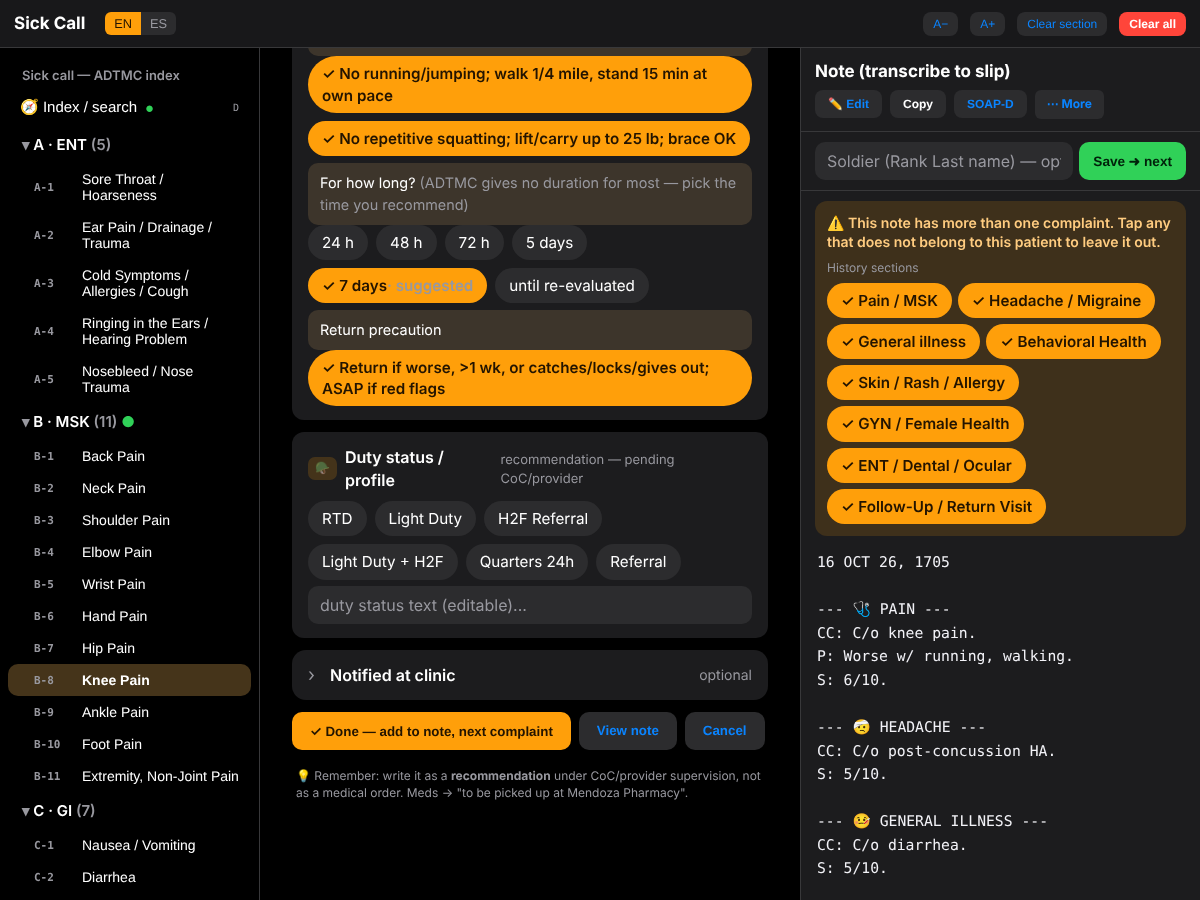
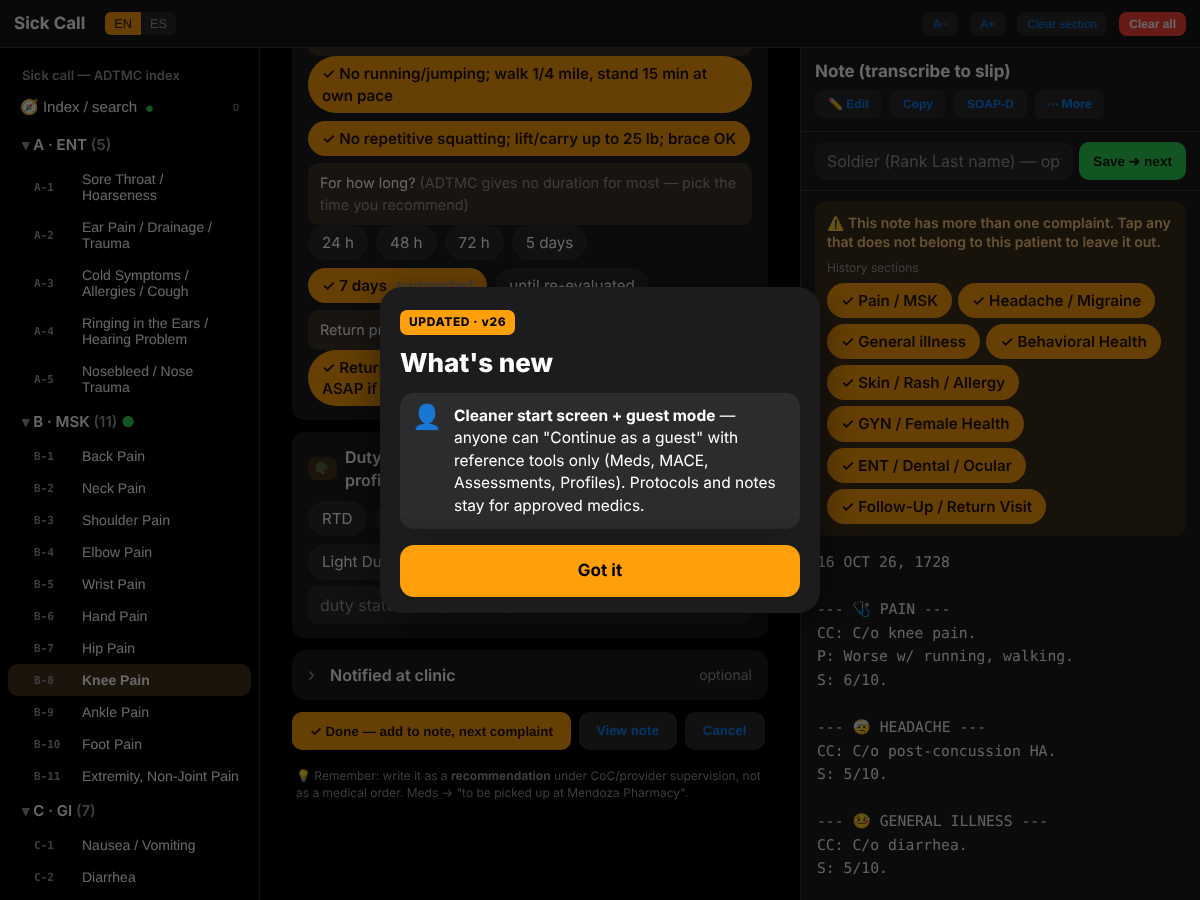
Cleaner start screen + guest mode with reference tools only (v26)
Pantalla de inicio más limpia + modo invitado solo con referencias (v26)

Claude-Session: https://claude.ai/code/session_015dVcNB5Wifchtix1QkjYVg

diff --git a/access.js b/access.js
@@ -47,21 +47,28 @@ function acShareBox(link,title){return '<div class="ac-qr">'+acQR(link)+'</div><
 async function accGate(force){
   if(!/^https?:/.test(location.protocol)||!AC.ok())return; // local file / no WebCrypto: dev mode
   acRole=await AC.role();
-  if(acRole){acClose();return;}
+  if(acRole){acGuestOff();acClose();return;}
+  if(acIsGuest()&&!force){acGuestApply();return;}
   let skip=false;try{skip=sessionStorage.getItem('sc_acskip')==='1';}catch(e){}
   if(skip&&!acEnforced()&&!force)return;
-  const left=acDays();
-  acOv('<div class="mg-k">68W · ADTMC</div><h2>'+L('Sick Call — for medics','Sick Call — para médicos')+'</h2>'
-   +'<p>'+L('This tool is for trained 68W medics and medical personnel using the ADTMC under provider supervision.','Esta herramienta es para médicos 68W entrenados y personal médico que usa el ADTMC bajo supervisión de un proveedor.')+'</p>'
-   +'<p><b>'+L('It does not diagnose. It is not for self-diagnosis or self-treatment.','No diagnostica. No es para autodiagnóstico ni para automedicarse.')+'</b></p>'
+  const lg=(typeof LANG!=='undefined'&&LANG==='es')?'es':'en';
+  acOv('<div class="mg-top"><span class="mg-k">68W · ADTMC</span><span class="mg-lang"><button class="'+(lg==='en'?'on':'')+'" onclick="acLang(\'en\')">EN</button><button class="'+(lg==='es'?'on':'')+'" onclick="acLang(\'es\')">ES</button></span></div>'
+   +'<h2>Sick Call</h2>'
+   +'<p class="mg-sub">'+L('For 68W medics, under provider supervision.','Para médicos 68W, bajo supervisión de un proveedor.')+' <b>'+L('Not for self-diagnosis.','No es para autodiagnóstico.')+'</b></p>'
    +'<button class="mg-btn" onclick="acReqView(\'medic\')">🩺 '+L('I\'m a medic — request access','Soy médico — pedir acceso')+'</button>'
-   +'<button class="mg-btn sec" onclick="acHaveView()">🔑 '+L('I have an approval (scan or paste)','Tengo una aprobación (escanear o pegar)')+'</button>'
-   +'<button class="ac-skip" style="padding-top:8px" onclick="acReqView(\'appr\')">'+L('Medic NCO? Become an approver','¿NCO de médicos? Ser aprobador')+'</button>'
+   +'<button class="mg-btn sec" onclick="acHaveView()">🔑 '+L('I have an approval','Tengo una aprobación')+'</button>'
    +'<button class="mg-btn sec" onclick="location.href=\'intake.html\'">🤒 '+L('I\'m a Soldier and I feel sick','Soy soldado y me siento mal')+'</button>'
-   +(acEnforced()?'':'<button class="ac-skip" onclick="acSkip()">'+L('Continue for now','Continuar por ahora')+' — '+L('approval required in ','aprobación obligatoria en ')+left+(left===1?L(' day',' día'):L(' days',' días'))+'</button>')
-   +((typeof canInstall==='function'&&canInstall())?'<button class="ac-skip" onclick="installApp()">📲 '+L('First time? Add the app to your Home Screen','¿Primera vez? Agrega la app a tu pantalla de inicio')+'</button>':'')
-   +'<p class="mg-f">'+L('Medics get access once: your NCO approves your phone. No name or ID is stored. Soldiers: answer the sick call questions and show your code to the medic. Emergency? Tell a medic now or call 911.','Los médicos piden acceso una sola vez: tu NCO aprueba tu teléfono. No se guarda nombre ni ID. Soldados: contesten las preguntas de sick call y enséñenle su código al médico. ¿Emergencia? Avísale a un médico ya o llama al 911.')+'</p>');
+   +'<button class="mg-btn ghost" onclick="acGuest()">👤 '+L('Continue as a guest','Continuar como invitado')+'<small>'+L('Reference tools only','Solo herramientas de referencia')+'</small></button>'
+   +'<div class="mg-links"><button onclick="acReqView(\'appr\')">'+L('NCO? Become an approver','¿NCO? Ser aprobador')+'</button>'+((typeof canInstall==='function'&&canInstall())?'<span>·</span><button onclick="installApp()">📲 '+L('Install app','Instalar app')+'</button>':'')+'</div>'
+   +'<div class="mg-em">🚨 '+L('Emergency? Tell a medic now or call 911.','¿Emergencia? Avísale a un médico ya o llama al 911.')+'</div>');
 }
+function acLang(l){try{setLang(l);}catch(e){}accGate(true);}
+/* Guest mode: reference tools only (Meds, MACE, Assessments, Questions, Profiles). No protocols, dispositions, notes or patient queue.
+   Modo invitado: solo referencias. Sin protocolos, disposiciones, notas ni lista de pacientes. */
+function acIsGuest(){try{return localStorage.getItem('sc_guest')==='1';}catch(e){return false;}}
+function acGuest(){try{localStorage.setItem('sc_guest','1');}catch(e){}acClose();acGuestApply();}
+function acGuestOff(){try{localStorage.removeItem('sc_guest');}catch(e){}document.body.classList.remove('guest');}
+function acGuestApply(){document.body.classList.add('guest');const gb=document.getElementById('guestBtn');if(gb)gb.textContent='👤 '+L('Guest','Invitado');try{if(typeof GUEST_OK!=='undefined'&&!GUEST_OK.includes(view)){tabGo('admeds');}else{renderNav();renderMain();}}catch(e){}}
 function acSkip(){try{sessionStorage.setItem('sc_acskip','1');}catch(e){}acClose();}
 function acReqView(role){
   const s=AC.get('sc_req')||{};

diff --git a/style.css b/style.css
@@ -718,3 +718,27 @@ header button.danger.armed,button.danger.armed,button.armed{background:#8E0000!i
 #wnOv .wn-go{margin-top:8px;border:0;background:none;color:var(--accent);font:inherit;font-weight:700;padding:0;cursor:pointer}
 #wnOv .wn-ok{width:100%;border:0;border-radius:14px;background:var(--accent);color:#000;font:inherit;font-size:17px;font-weight:700;padding:14px;margin-top:6px;cursor:pointer}
 #wnOv .wn-ok{position:sticky;bottom:0;box-shadow:0 -10px 16px var(--panel)}
+/* Start screen redesign + guest mode (v26) / Pantalla de inicio + invitado */
+#mgOv .mg-top{display:flex;align-items:center;justify-content:space-between}
+#mgOv .mg-lang{display:flex;background:var(--panel);border-radius:9px;padding:2px}
+#mgOv .mg-lang button{border:0;background:none;color:var(--dim);font:inherit;font-size:14px;font-weight:700;padding:6px 12px;border-radius:7px}
+#mgOv .mg-lang button.on{background:var(--orange);color:#000}
+#mgOv h2{font-size:40px;letter-spacing:-.02em;margin:22px 0 8px}
+#mgOv .mg-sub{font-size:17px;color:var(--dim);margin:0 0 22px;line-height:1.45}
+#mgOv .mg-sub b{color:var(--txt);font-weight:700}
+#mgOv .mg-btn{margin-top:10px}
+#mgOv .mg-btn.ghost{background:none;border:1.5px dashed var(--line);color:var(--txt);margin-top:18px}
+#mgOv .mg-btn small{display:block;font-size:13px;font-weight:500;color:var(--dim);margin-top:3px}
+#mgOv .mg-links{display:flex;justify-content:center;align-items:center;gap:10px;margin-top:22px;color:var(--dim);font-size:15px}
+#mgOv .mg-links button{border:0;background:none;color:var(--orange);font:inherit;font-weight:600;padding:4px 2px}
+#mgOv .mg-em{text-align:center;color:var(--dim);font-size:14px;margin-top:14px}
+.guest-btn{display:none;background:var(--panel2)!important;color:var(--txt)!important;font-weight:700}
+body.guest .guest-btn{display:inline-block}
+body.guest #aside,body.guest #mobileNoteBtn,body.guest #tabbar button[data-v="adtmc"],body.guest #tabbar button[data-v="guardados"],body.guest header button[onclick="resetTpl()"],body.guest header .danger{display:none!important}
+.guest-lock{max-width:440px;margin:40px auto;text-align:center;padding:0 8px}
+.guest-lock .gl-ic{font-size:44px}
+.guest-lock h2{font-size:26px;margin:10px 0 8px}
+.guest-lock p{color:var(--dim);font-size:16px;line-height:1.5;margin:0 0 18px}
+.guest-lock button{display:block;width:100%;border:0;border-radius:14px;padding:15px;font:inherit;font-size:17px;font-weight:700;margin-top:10px;cursor:pointer}
+.guest-lock .gl-btn{background:var(--accent);color:#000}
+.guest-lock .gl-sec{background:var(--panel);color:var(--txt)}

diff --git a/app.js b/app.js
@@ -1121,8 +1121,12 @@ function fuQs(t,s,fid){
   }
   return out;
 }
+const GUEST_OK=['admeds','mace','more','preguntas','assess','perfiles','access'];
+function isGuest(){return document.body.classList.contains('guest');}
+function guestLocked(){return '<div class="guest-lock"><div class="gl-ic">🔒</div><h2>'+L('For approved medics','Para médicos aprobados')+'</h2><p>'+L('Protocols, dispositions, notes and the patient list need medic access. As a guest you can use Meds, MACE, Assessments, Questions and Profiles.','Los protocolos, disposiciones, notas y la lista de pacientes necesitan acceso de médico. Como invitado puedes usar Meds, MACE, Assessments, Preguntas y Perfiles.')+'</p><button class="gl-btn" onclick="accGate(true)">🩺 '+L('Get medic access','Pedir acceso de médico')+'</button><button class="gl-sec" onclick="tabGo(\'admeds\')">💊 '+L('Go to Meds','Ir a Meds')+'</button></div>';}
 function renderMain(){
   const m=document.getElementById('main');
+  if(isGuest()&&!GUEST_OK.includes(view)){m.innerHTML=guestLocked();return;}
   if(view==='adtmc'){m.innerHTML=renderAD();return;}
   if(view==='admeds'){m.innerHTML=renderADMeds();return;}
   if(view==='ajustes'){m.innerHTML=renderSettings();return;}
@@ -2727,7 +2731,7 @@ async function tryUnlock(){
 }
 function lockNow(){if(settings.pin){document.getElementById('lock').style.display='flex';}}
 function showLockIfNeeded(){if(settings.pin)document.getElementById('lock').style.display='flex';}
-const APP_VER='v25';
+const APP_VER='v26';
 function updateApp(b){
   if(b){b.disabled=true;b.textContent=L('Updating…','Actualizando…');}
   const go=()=>{location.href=location.pathname+'?u='+Date.now();};

diff --git a/data/whatsnew.js b/data/whatsnew.js
@@ -3,6 +3,8 @@
    Add a new entry at the TOP for every feature release (same value as APP_VER). Keep it short: 1–3 items.
    go: optional button target — a tab/view name ('admeds', 'perfiles', 'more') or 'proto:J-3'. */
 const WHATSNEW=[
+ {v:'v26',items:[
+   {i:'👤',en:'<b>Cleaner start screen + guest mode</b> — anyone can "Continue as a guest" with reference tools only (Meds, MACE, Assessments, Profiles). Protocols and notes stay for approved medics.',es:'<b>Pantalla de inicio más limpia + modo invitado</b> — cualquiera puede "Continuar como invitado" solo con referencias (Meds, MACE, Assessments, Perfiles). Los protocolos y notas siguen siendo para médicos aprobados.'}]},
  {v:'v25',items:[
    {i:'🆕',en:'<b>What\'s new window</b> — after each update you\'ll see this card with the new features.',es:'<b>Ventana de novedades</b> — después de cada actualización verás esta tarjeta con lo nuevo.'}]},
  {v:'v24',items:[

diff --git a/sw.js b/sw.js
@@ -1,4 +1,4 @@
-const C='sickcall-v25';
+const C='sickcall-v26';
 const FILES=['./','index.html','style.css','app.js','data/protocols.js','data/meds.js','data/plans.js','data/notetags.js','data/howto.js','data/es.js','manifest.json','vendor/pdf-lib.min.js','forms/DD689.pdf','data/intake.js','intake.html','poster.html','vendor/qrcode.min.js','vendor/jsQR.min.js','access.js','data/access.js','data/medinfo.js','data/pfb.js','data/whatsnew.js','icons/icon-192.png','icons/icon-512.png','icons/apple-touch-icon.png'];
 self.addEventListener('install',e=>{e.waitUntil(caches.open(C).then(c=>c.addAll(FILES.map(f=>new Request(f,{cache:'reload'})))).then(()=>self.skipWaiting()));});
 self.addEventListener('activate',e=>{e.waitUntil(caches.keys().then(k=>Promise.all(k.filter(x=>x!==C).map(x=>caches.delete(x)))).then(()=>self.clients.claim()));});

diff --git a/index.html b/index.html
@@ -18,6 +18,7 @@
 <header>
   <span class="brand">Sick Call</span><span class="langsw"><button id="lEN" onclick="setLang('en')" title="English">EN</button><button id="lES" onclick="setLang('es')" title="Español">ES</button></span><span class="sub">68W · ADTMC (MEDCOM Pam 40-7-21) — tap options, the note builds itself</span>
   <span class="spacer"></span>
+  <button id="guestBtn" class="guest-btn" onclick="accGate(true)" title="Guest mode — get medic access">👤 Guest</button>
   <button id="instBtn" class="inst-btn" onclick="installApp()" style="display:none" title="Add to Home Screen">📲 Install</button>
   <button onclick="setFs(-1)" title="smaller text">A−</button>
   <button onclick="setFs(1)" title="larger text">A+</button>

diff --git a/CHANGELOG.md b/CHANGELOG.md
@@ -4,6 +4,8 @@ Bilingual summary of everything added or fixed, newest first. PR numbers refer t
 Resumen bilingüe de todo lo agregado o corregido, lo más nuevo primero. Los números de PR son de este repositorio.
 
 ## Unreleased / Próximo
+- **Cleaner start screen + guest mode:** the access screen is simpler (less small text, EN/ES switch). New "Continue as a guest": reference tools only — Meds, MACE, Assessments, Questions and Profiles. Protocols, dispositions, notes and the patient list stay locked for approved medics. A 👤 Guest button at the top returns to the access screen.
+  **Pantalla de inicio más limpia + modo invitado:** la pantalla de acceso es más sencilla (menos letra chica, botón EN/ES). Nuevo "Continuar como invitado": solo referencias — Meds, MACE, Assessments, Preguntas y Perfiles. Protocolos, disposiciones, notas y la lista de pacientes siguen bloqueados para médicos aprobados. Un botón 👤 Invitado arriba regresa a la pantalla de acceso.
 - **"What's new" popup:** after an update, medics see a short card with the new features once (with a button to jump to them). More → What's new shows it again.
   **Ventana "Novedades":** después de una actualización, los médicos ven una vez una tarjeta corta con lo nuevo (con botón para ir directo). Más → Novedades la vuelve a mostrar.
 - **Shaving profile (PFB):** Soldier questionnaire has "Shaving profile / razor bumps" (Skin) with follow-ups: face/neck swelling, spreading redness or fever (red), pus or painful lumps and mask/protective-gear seal problems (needs a look), renewal, dark spots/scars; otherwise triaged as routine. In the medic app, ADTMC J-3 and More → Profiles show a PFB builder: pick Mild / Moderate / Severe → phase and duration (30 / 60 / up to 90 days), shaving instructions, treatment plan and suggested e-Profile wording (copy). The note gets a recommendation line for the provider/AEM. Based on the clinic PFB guidance (TB MED 287, Army Directive 2025-13).
